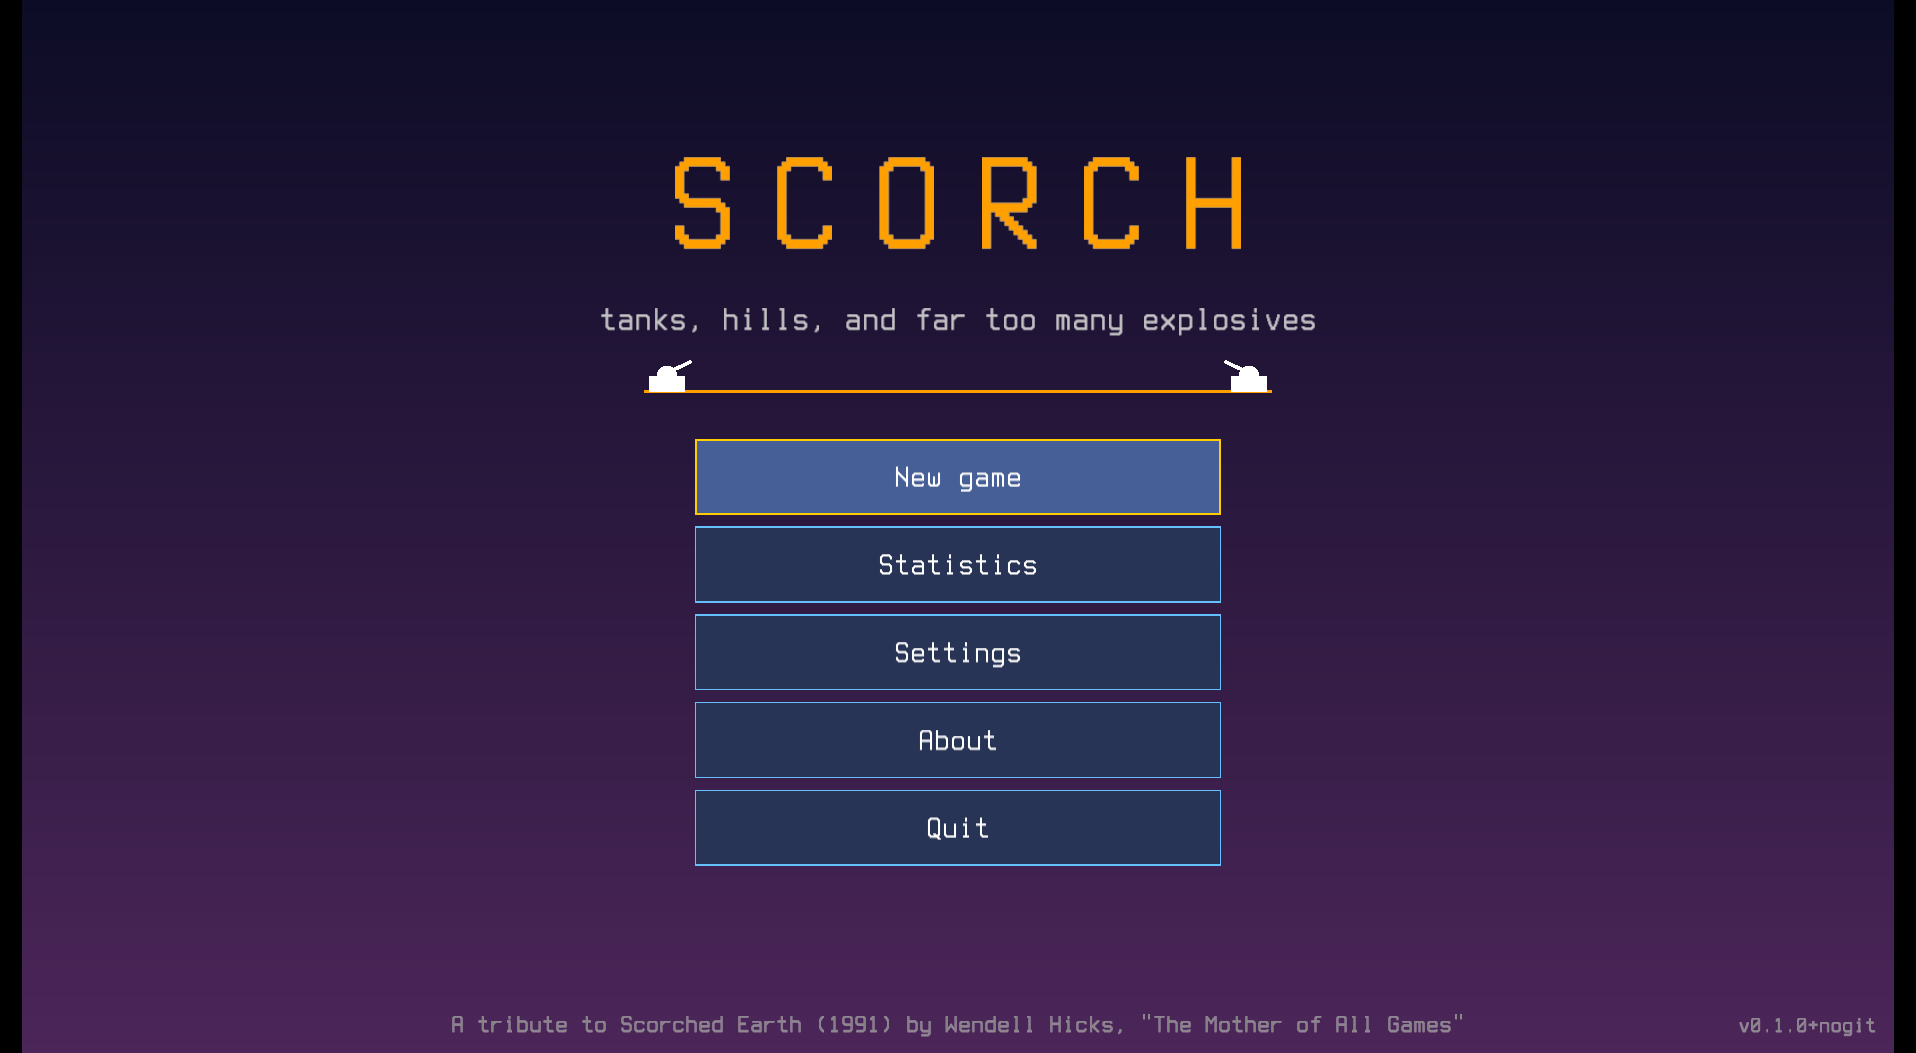
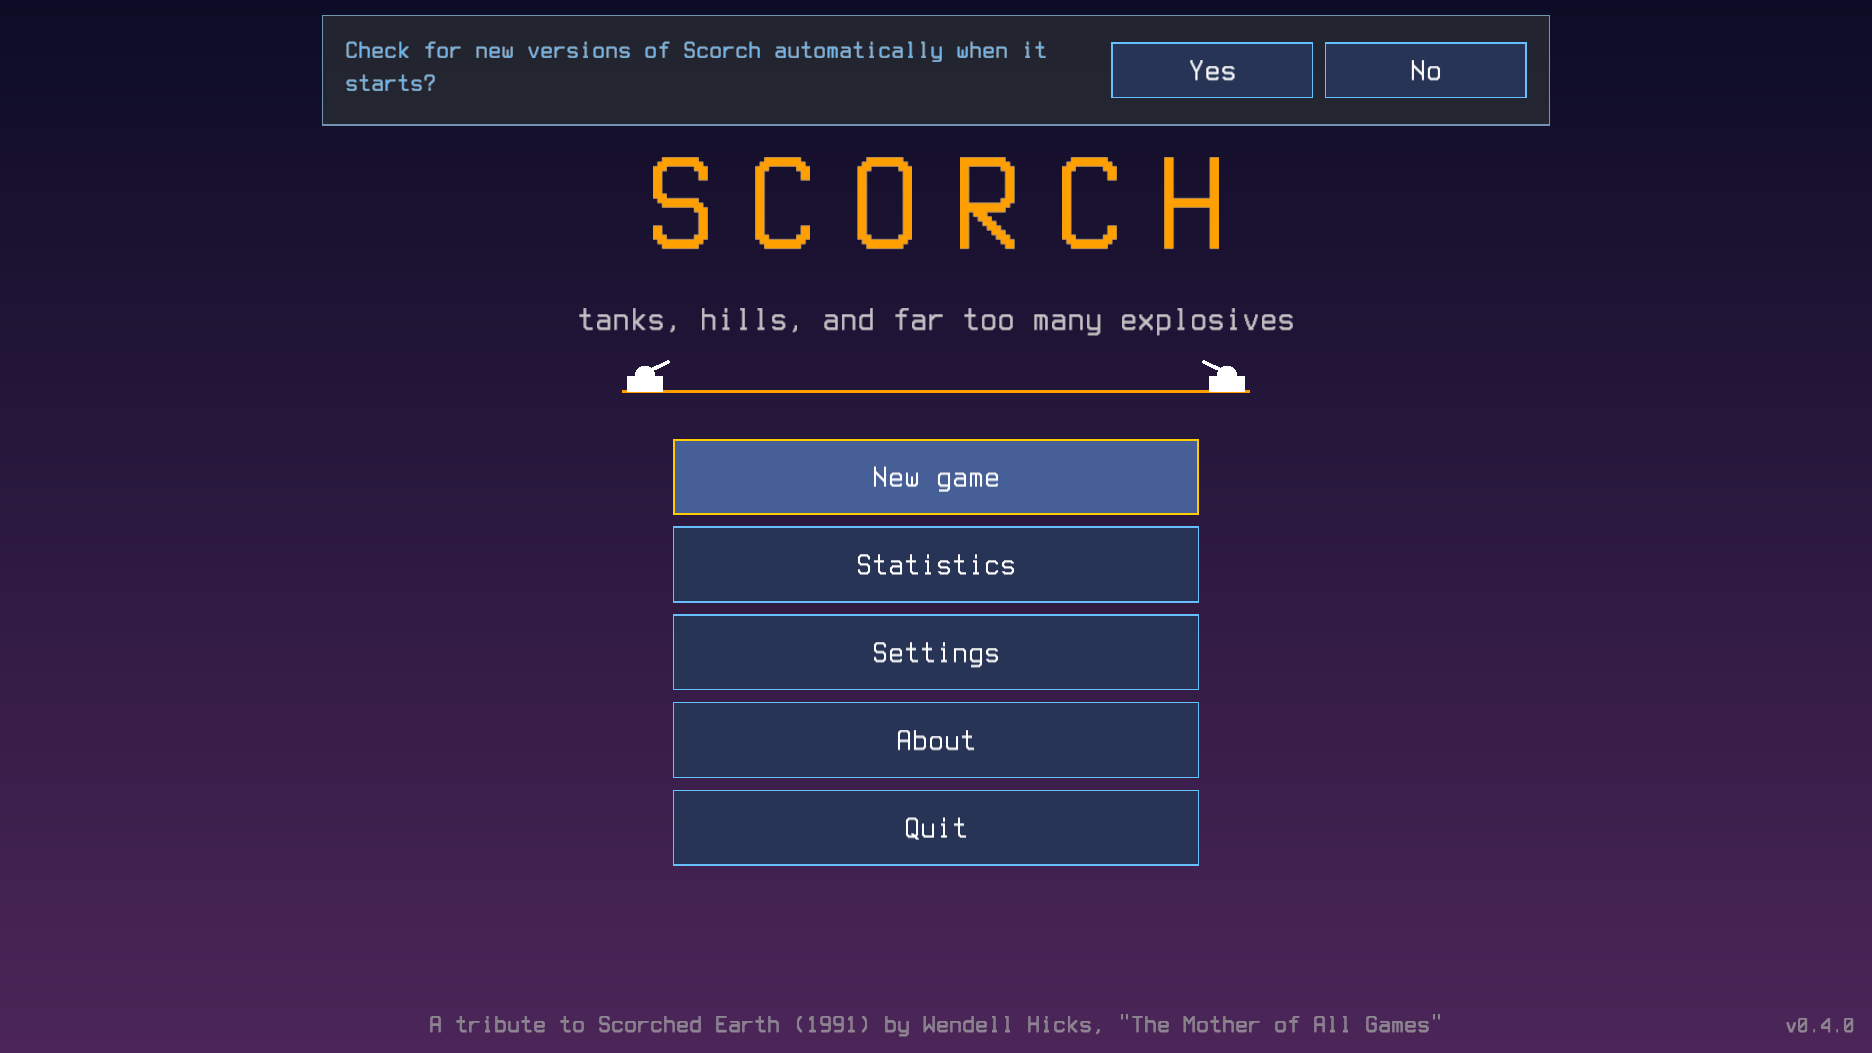
docs: fresh README screenshots and features; --shot keeps only the game area
Screenshots show the weapon strip, the eleven weapons and the current
shop, all in English. --shot now crops to the 16:9 game area, so shots
look the same in any window.

diff --git a/src/main.rs b/src/main.rs
@@ -1120,11 +1120,25 @@ async fn run() {
         if let Some(path) = &shot
             && frame == 90
         {
-            get_screen_data().export_png(path);
+            game_area(&get_screen_data()).export_png(path);
             break;
         }
         next_frame().await;
     }
+}
+
+/// The 16:9 game area of a screenshot, without the bands around it, so shots look the same in any
+/// window.
+fn game_area(screen: &Image) -> Image {
+    let (w, h) = (f32::from(screen.width), f32::from(screen.height));
+    let scale = (w / ui::WIDTH).min(h / ui::HEIGHT);
+    let (gw, gh) = ((ui::WIDTH * scale).floor(), (ui::HEIGHT * scale).floor());
+    screen.sub_image(Rect::new(
+        ((w - gw) / 2.0).floor(),
+        ((h - gh) / 2.0).floor(),
+        gw,
+        gh,
+    ))
 }
 
 /// The guides must name every weapon and setting value: these tests fail when they drift apart.

diff --git a/README.md b/README.md
@@ -12,21 +12,25 @@ Mother of All Games".
 
 *In memory of Joseph Rivkind (1952–2026), who taught me to never stop learning.*
 
-![A battle: three tanks on rolling hills at night](docs/screenshots/battle.png)
+![A battle: three tanks on rolling hills at night, your weapons along the bottom](docs/screenshots/battle.png)
 
 ## Features
 
 - **Destructible terrain:** every explosion digs a crater, tanks fall into them, and wrecks stay where they land.
 - **Wind and gravity** that change how every shot flies, plus four terrain types (or a random one), four kinds of walls
   and three skies.
-- **Five weapons**, from the free Baby Missile to the Nuke and the MIRV, which splits into five warheads. The Dirt Bomb
-  buries your enemies.
+- **Eleven weapons**, from the free Baby Missile to the Nuke: the MIRV splits into five warheads, the Roller rolls
+  downhill into the next dip, the Leapfrog hops on for three blasts, Napalm's burning fuel runs downhill, the Dirt Bomb
+  buries your enemies and the Digger sinks the ground under them.
+- **Shields and parachutes:** a Shield or Heavy Shield soaks up damage, the Mag Deflector pushes shells away, and a
+  parachute saves you from a long fall.
 - **Chain reactions:** a destroyed tank explodes, and the ammo it carries makes the blast bigger.
 - **Bots that learn to aim like people do:** they miss at first, then close in shot by shot. They take revenge, pick on
   the weak or go after the leader. Three skills, four difficulties, or design your own bot.
 - **A shop between rounds**, with catch-up rules so one bad round doesn't decide the game.
 - **Hotseat:** two players at one keyboard.
 - **Battle log** of every shot, hit and kill, and why each bot picked its target.
+- **8-bit sound effects**, made by the game itself, with a volume setting.
 - **Saves automatically:** close the window any time and continue later.
 - **Updates itself** if you allow it: signed updates from this page, installed with one click.
 - **Languages:** English and Ukrainian.
@@ -35,7 +39,7 @@ Mother of All Games".
 | | |
 |---|---|
 | ![Main menu](docs/screenshots/menu.png) | ![Shop and inventory between rounds](docs/screenshots/shop.png) |
-| ![New game setup in Ukrainian](docs/screenshots/setup-uk.png) | |
+| ![New game setup](docs/screenshots/setup.png) | |
 
 ## Getting started
 

diff --git a/docs/DEVELOPMENT.md b/docs/DEVELOPMENT.md
@@ -175,8 +175,10 @@ The feed keeps the last 6 events for 8 seconds; the full log shows the last 18 l
 
 ## Screenshots
 
-The README's screenshots in `docs/screenshots/` come from `--screen <name> --shot <file>` (see above); regenerate them
-when screens change.
+The README's screenshots in `docs/screenshots/` come from `--screen <name> --shot <file>` (see above), in English:
+`arsenal` (saved as `battle.png`), `menu`, `shop` and `setup`. A shot holds only the 16:9 game area, whatever the
+window's shape. Build with `SCORCH_BUILD_VERSION=<release>` so the corner shows a plain version, regenerate them when
+screens change, and shrink them with `oxipng -o 4 --strip safe`.
 
 ## Font
 
